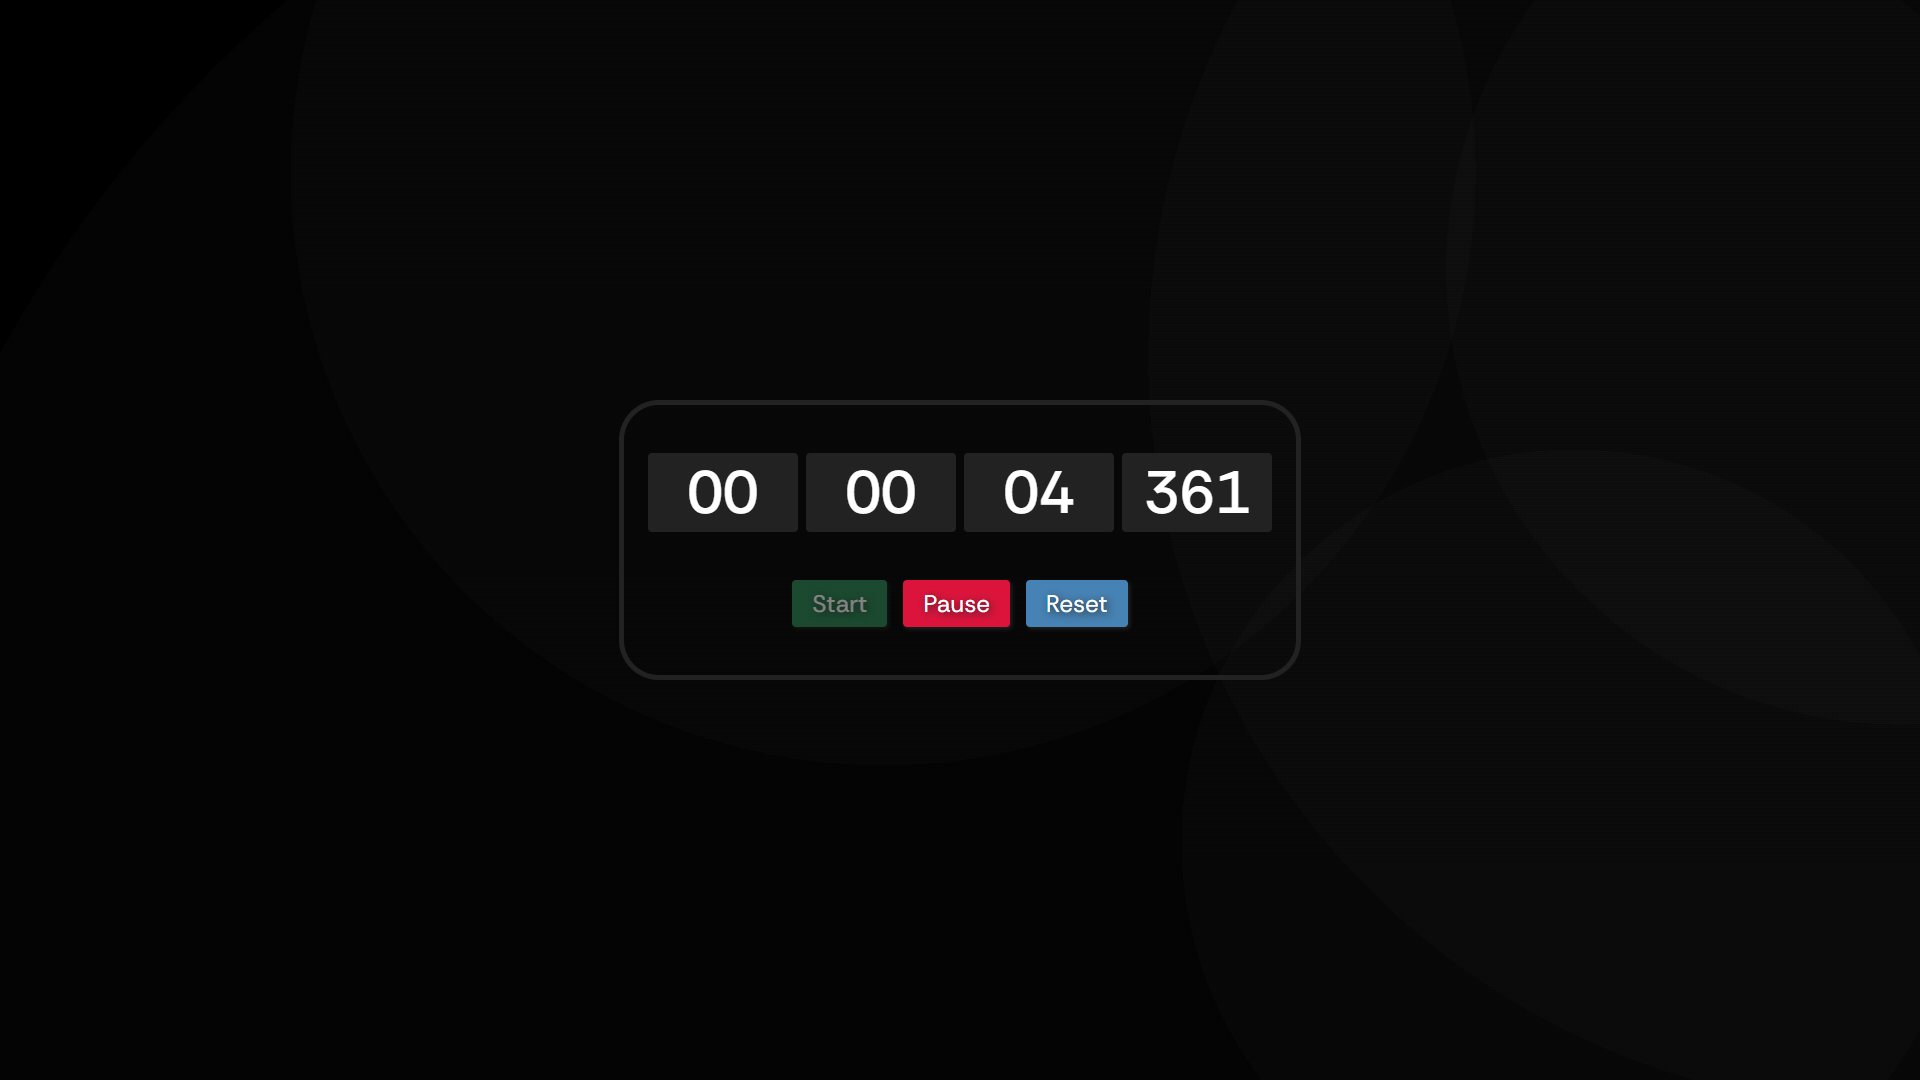
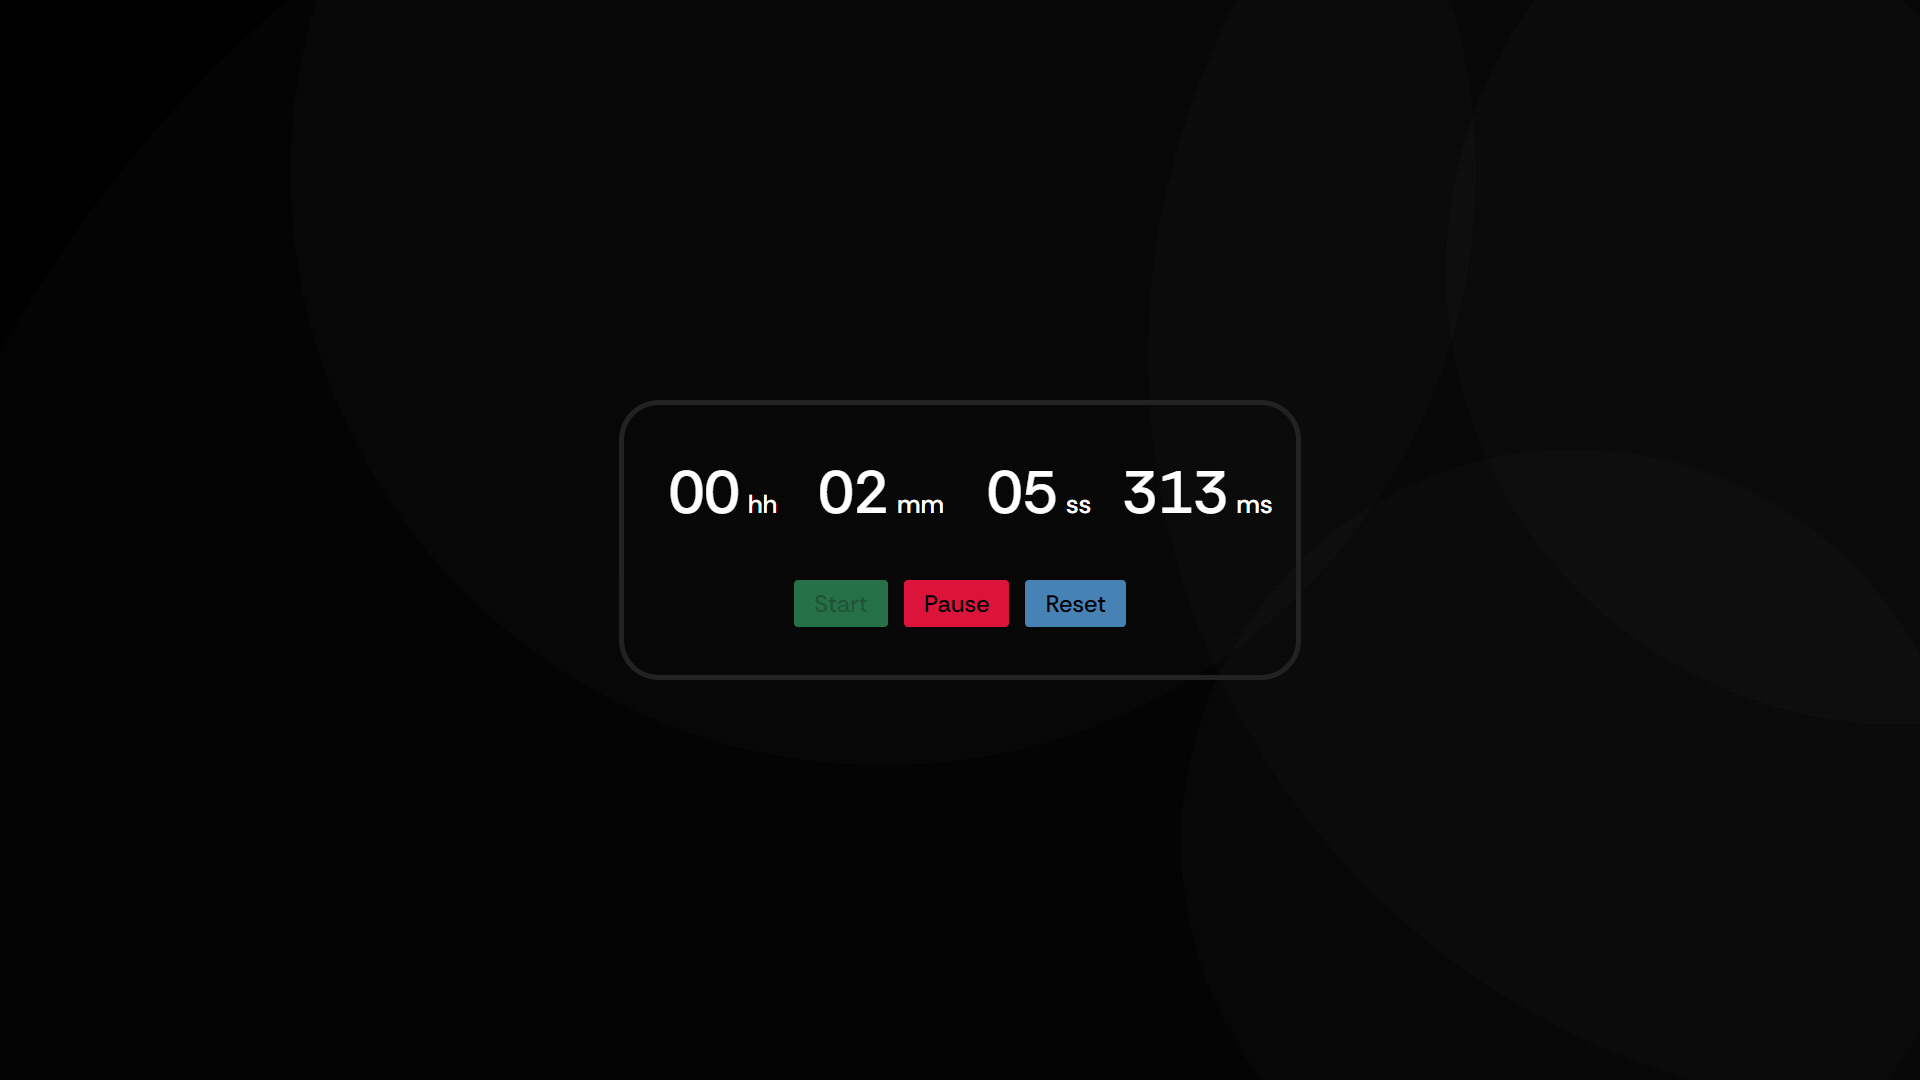
project card ui updated

Changed region(s): [[0.3125, 0.3972, 0.6875, 0.5806]]

diff --git a/src/pages/home/Home.jsx b/src/pages/home/Home.jsx
@@ -19,12 +19,12 @@ const Home = () => {
         <div className="home">
             <Header/>
             <div className="projects">
-                <Card thumb={ClockThumb} title={"Digital Clock"} path={"/clock"}/>
-                <Card thumb={StopwatchThumb} title={"Stopwatch"} path={"/stopwatch"}/>
-                <Card thumb={PasswordCheckerThumb} title={"Password Strength Checker"} path={"/password-checker"}/>
-                <Card thumb={FormValidatorThumb} title={"Form Validator"} path={"/form-validator"}/>
-                <Card thumb={TextAnalyzerThumb} title={"Text Analyzer"} path={"/text-analyzer"}/>
-                <Card thumb={RecursivePartitioningThumb} title={"Recursive Partitioning"} path={"/recursive-partitioning"}/>
+                <Card thumb={ClockThumb} title={"#01. Digital Clock"} path={"/clock"}/>
+                <Card thumb={StopwatchThumb} title={"#02. Stopwatch"} path={"/stopwatch"}/>
+                <Card thumb={PasswordCheckerThumb} title={"#03. Password Strength Checker"} path={"/password-checker"}/>
+                <Card thumb={FormValidatorThumb} title={"#04. Form Validator"} path={"/form-validator"}/>
+                <Card thumb={TextAnalyzerThumb} title={"#05. Text Analyzer"} path={"/text-analyzer"}/>
+                <Card thumb={RecursivePartitioningThumb} title={"#06. Recursive Partitioning"} path={"/recursive-partitioning"}/>
             </div>
             <Footer/>
         </div>

diff --git a/src/pages/stopwatch/stopwatch.css b/src/pages/stopwatch/stopwatch.css
@@ -62,7 +62,6 @@
     outline: none;
     cursor: pointer;
     border-radius: 0.2rem;
-    background: #069952;
     font-family: 'Rethink Sans', sans-serif;
     transition: all 0.3s ease;
 }
